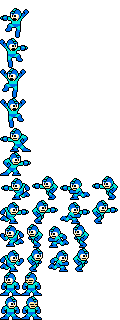
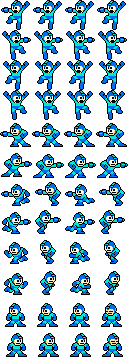
움직임
움직임

diff --git a/gotong.py b/gotong.py
@@ -1,6 +1,13 @@
 import random
 from pico2d import *
 
+running = None
+Rockman = None
+
+class Shot:
+    def __init__(self):
+        self.image = load_image('Buster.png')
+
 class Grass:
     def __init__(self):
         self.image = load_image('grass.png')
@@ -9,44 +16,87 @@ class Grass:
         self.image.draw(400, 30)
 
 class Rockman:
+
+    image = None
+
+    RIGHT_STAND, LEFT_STAND, RIGHT_RUN, LEFT_RUN = 0, 1, 2, 3
+
     def __init__(self):
         self.x, self.y = 0, 90
-        self.frame = 0
-        self.image = load_image('character.png')
+        self.frame = random.randint(0, 3)
+        self.state = 0
+        if self.image == None:
+            self.image = load_image('Rockman4.png')
+
+    def handle_events(self, event):
+        if event.type == SDL_KEYDOWN:
+            if event.key == SDLK_RIGHT:
+                if self.state in (self.RIGHT_STAND, self.LEFT_STAND, self.LEFT_RUN):
+                    self.state = self.RIGHT_RUN
+            elif event.key == SDLK_LEFT:
+                if self.state in (self.RIGHT_STAND, self.LEFT_STAND, self.RIGHT_RUN):
+                    self.state = self.LEFT_RUN
+        elif event.type == SDL_KEYUP:
+            if event.key == SDLK_RIGHT:
+                if self.state in (self.RIGHT_RUN,):
+                    self.state = self.RIGHT_STAND
+            elif event.key == SDLK_LEFT:
+                if self.state in (self.LEFT_RUN,):
+                    self.state = self.LEFT_STAND
+
 
     def update(self):
-        self.frame = (self.frame + 1) % 8
-        self.x += 5
+        self.frame = (self.frame + 1) % 4
+        if self.state == self.RIGHT_RUN:
+            self.x = min(800, self.x + 5)
+        elif self.state == self.LEFT_RUN:
+            self.x = max(0, self.x - 5)
 
     def draw(self):
-        self.image.clip_draw(self.frame * 100, 0, 100, 100, self.x, self.y)
+        self.image.clip_draw(self.frame*32, self.state * 30, 32, 30, self.x, self.y)
+
+
+
 
 def handle_events():
+
     global running
+    global rockman
     events = get_events()
+
     for event in events:
         if event.type == SDL_QUIT:
             running = False
         elif (event.type, event.key) == (SDL_KEYDOWN, SDLK_ESCAPE):
             running = False
+        else:
+            rockman.handle_events(event)
 
-open_canvas()
+def main():
 
-grass = Grass()
-rockman = Rockman()
+    open_canvas()
 
-running = True
+    global rockman
+    global running
 
-x = 0
-while running:
-    handle_events()
+    rockman = Rockman()
+    grass = Grass()
 
-    rockman.update()
+    running = True
+    while running:
+        handle_events()
 
-    clear_canvas()
-    grass.draw()
-    rockman.draw()
-    update_canvas()
-    delay(0.01)
+        rockman.update()
 
-close_canvas()
+        clear_canvas()
+        grass.draw()
+        rockman.draw()
+        update_canvas()
+
+        delay(0.01)
+
+    close_canvas()
+
+
+if __name__ == '__main__':
+    main()
